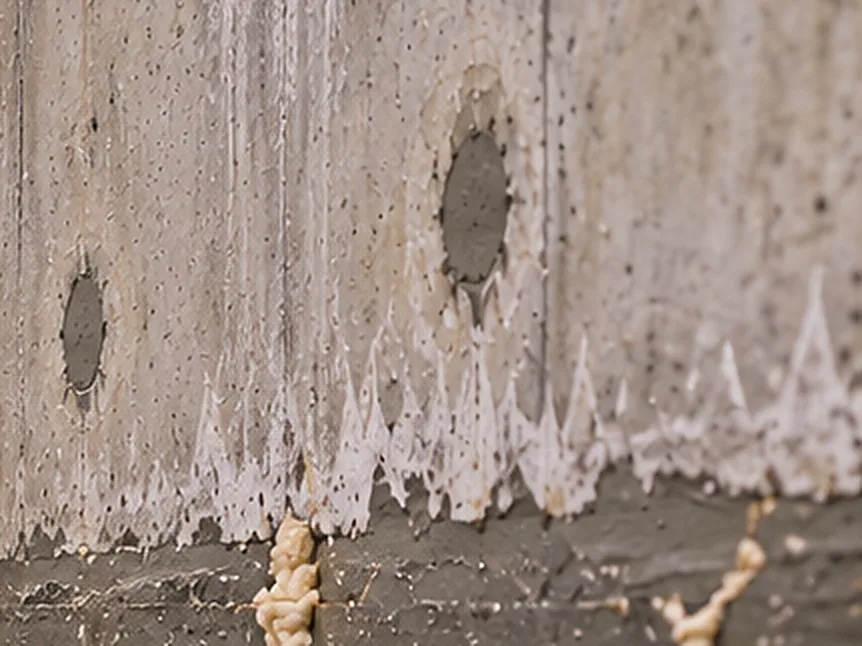
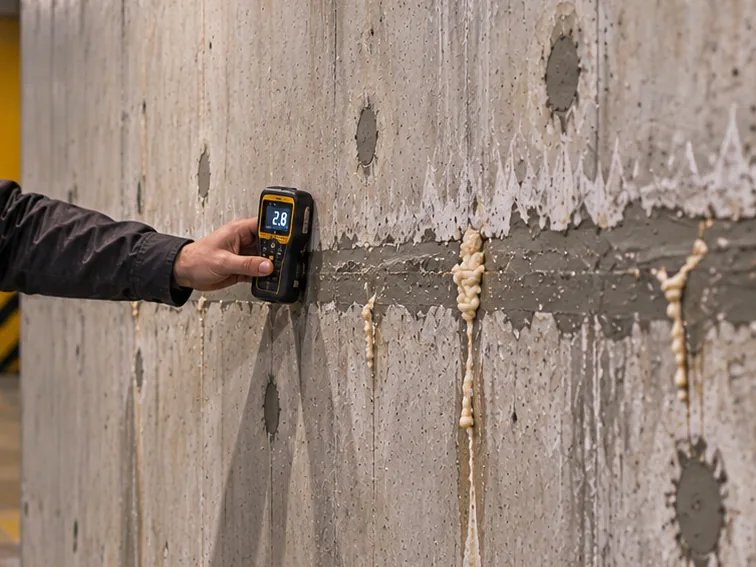
fix: replace oversized step-05 work photo and bust asset cache

diff --git a/index.html b/index.html
@@ -1,4 +1,4 @@
-<!doctype html><html lang="ru"><head><meta charset="utf-8"><meta name="viewport" content="width=device-width,initial-scale=1"><title>Инъекционная гидроизоляция подземных паркингов | Кардинал Инжиниринг</title><meta name="description" content="Гидроизоляция подземных паркингов и подвалов. Определяем путь поступления воды, подбираем технологию и бесплатно обследуем объект."><meta name="theme-color" content="#111315"><meta property="og:title" content="Инъекционная гидроизоляция подземных паркингов"><meta property="og:description" content="Инженерные решения для трещин, швов, вводов коммуникаций и напорных протечек."><link rel="icon" href="assets/icons/favicon.svg" type="image/svg+xml"><link rel="preload" as="image" href="assets/images/hero-waterproofing-team.webp" fetchpriority="high"><link rel="stylesheet" href="styles.css?v=assets-v5"></head><body>
+<!doctype html><html lang="ru"><head><meta charset="utf-8"><meta name="viewport" content="width=device-width,initial-scale=1"><title>Инъекционная гидроизоляция подземных паркингов | Кардинал Инжиниринг</title><meta name="description" content="Гидроизоляция подземных паркингов и подвалов. Определяем путь поступления воды, подбираем технологию и бесплатно обследуем объект."><meta name="theme-color" content="#111315"><meta property="og:title" content="Инъекционная гидроизоляция подземных паркингов"><meta property="og:description" content="Инженерные решения для трещин, швов, вводов коммуникаций и напорных протечек."><link rel="icon" href="assets/icons/favicon.svg" type="image/svg+xml"><link rel="preload" as="image" href="assets/images/hero-waterproofing-team.webp" fetchpriority="high"><link rel="stylesheet" href="styles.css?v=assets-v6"></head><body>
 <header class="site-header" id="top"><a class="brand" href="#top"><span class="brand-mark">К</span><span>КАРДИНАЛ<br><em>ИНЖИНИРИНГ</em></span></a><nav class="main-nav" id="primary-nav"><a href="#defects">Решения</a><a href="#injection">Технология</a><a href="#process">Как работаем</a><a href="#survey">Обследование</a></nav><div class="header-actions"><a class="phone" href="tel:+79677773568">8-967-777-35-68</a><button class="button button-small" data-action="survey">Обследование</button></div><button class="menu-toggle" aria-label="Открыть меню" aria-expanded="false" aria-controls="primary-nav"><span></span><span></span></button></header>
 <main>
 <section class="hero section-dark"><div class="hero-art"></div><div class="container hero-content"><p class="eyebrow">ИНЪЕКЦИОННАЯ ГИДРОИЗОЛЯЦИЯ <span></span></p><h1>Гидроизоляция<br>подземных паркингов<br><strong>и подвалов</strong></h1><p class="hero-lead">Устраняем протечки через трещины, рабочие и деформационные швы, вводы коммуникаций и железобетонные конструкции.</p><p class="hero-offer">Бесплатное обследование объекта<br>и техническое решение без обязательств.</p><div class="hero-actions"><button class="button" data-action="survey">Записаться на обследование <span>↗</span></button><a class="outline-link" href="tel:+79677773568">8-967-777-35-68</a></div><div class="hero-markers"><span>ТРЕЩИНЫ</span><span>ШВЫ</span><span>ВВОДЫ</span><span>НАПОРНЫЕ ТЕЧИ</span><span>ВУАЛЬНАЯ ГИДРОИЗОЛЯЦИЯ</span></div></div></section>
@@ -16,4 +16,4 @@
 <section class="section light audience"><div class="container"><p class="eyebrow dark">06 / ОБЪЕКТЫ</p><div class="ticker">УПРАВЛЯЮЩИЕ КОМПАНИИ <i>•</i> ГБУ <i>•</i> СЛУЖБЫ ЭКСПЛУАТАЦИИ <i>•</i> БИЗНЕС-ЦЕНТРЫ <i>•</i> ТОРГОВЫЕ ЦЕНТРЫ <i>•</i> ДЕВЕЛОПЕРЫ <i>•</i> ГЕНЕРАЛЬНЫЕ ПОДРЯДЧИКИ</div><h3>Работаем с действующими объектами,<br>где ремонт необходимо выполнить<br><em>с минимальным вмешательством в конструкцию.</em></h3></div></section>
 <section class="section section-dark process-v3" id="process"><div class="container"><p class="eyebrow">07 / СИСТЕМА РАБОТЫ</p><h2>От дефекта<br>до <em>выполненных работ</em></h2><div class="process-line"><span>ОБСЛЕДОВАНИЕ</span><i>→</i><span>ТЕХНИЧЕСКОЕ РЕШЕНИЕ</span><i>→</i><span>СМЕТА / КП</span><i>→</i><span>ТЗ</span><i>→</i><span>РАБОТЫ</span><i>→</i><span>КОНТРОЛЬ РЕЗУЛЬТАТА</span></div></div></section>
 <section class="section final-cta section-dark"><div class="container final-layout"><div class="section-heading"><p class="eyebrow">08 / ОБСЛЕДОВАНИЕ ОБЪЕКТА</p><h2>ЕСТЬ ПРОТЕЧКА<br>В ПОДЗЕМНОМ<br><em>ПАРКИНГЕ?</em></h2><p>Начнем с обследования.<br><strong class="free-note">Бесплатно. Без обязательств.</strong></p><div class="contact-mini"><a href="tel:+79677773568">8-967-777-35-68</a><a href="mailto:s.dimitriev@injekt-pro.ru">s.dimitriev@injekt-pro.ru</a></div></div><form class="survey-form" id="survey-form-final" novalidate><div class="form-status" aria-live="polite"></div><label>Организация<input name="organization" placeholder="Название организации"></label><label>Адрес объекта<input name="address" placeholder="Город, улица, объект"></label><label class="required">Телефон<input name="phone" type="tel" placeholder="8 (___) ___-__-__" required></label><label>Краткое описание проблемы<textarea name="problem" rows="4" placeholder="Где появляется вода?"></textarea></label><button class="button" type="submit">Записаться на обследование <span>↗</span></button></form></div></section></main>
-<footer class="site-footer"><div class="container footer-grid"><div><a class="brand" href="#top"><span class="brand-mark">К</span><span>КАРДИНАЛ<br><em>ИНЖИНИРИНГ</em></span></a><p>Гидроизоляция · Инъектирование · Ремонт подземных пространств</p></div><div><span class="footer-label">КОНТАКТЫ</span><a href="tel:+79677773568">8-967-777-35-68</a><a href="mailto:s.dimitriev@injekt-pro.ru">s.dimitriev@injekt-pro.ru</a><a href="https://injekt-pro.ru">injekt-pro.ru</a></div><div><span class="footer-label">НАВИГАЦИЯ</span><a href="#defects">Решения</a><a href="#injection">Технология</a><a href="#survey">Обследование</a></div></div><div class="container footer-bottom"><span>© ООО «Кардинал Инжиниринг»</span><span>Под землёй тоже есть будущее</span></div></footer><a class="mobile-cta" href="#survey" data-action="survey">Бесплатное обследование <span>↗</span></a><script src="script.js?v=assets-v5"></script></body></html>
+<footer class="site-footer"><div class="container footer-grid"><div><a class="brand" href="#top"><span class="brand-mark">К</span><span>КАРДИНАЛ<br><em>ИНЖИНИРИНГ</em></span></a><p>Гидроизоляция · Инъектирование · Ремонт подземных пространств</p></div><div><span class="footer-label">КОНТАКТЫ</span><a href="tel:+79677773568">8-967-777-35-68</a><a href="mailto:s.dimitriev@injekt-pro.ru">s.dimitriev@injekt-pro.ru</a><a href="https://injekt-pro.ru">injekt-pro.ru</a></div><div><span class="footer-label">НАВИГАЦИЯ</span><a href="#defects">Решения</a><a href="#injection">Технология</a><a href="#survey">Обследование</a></div></div><div class="container footer-bottom"><span>© ООО «Кардинал Инжиниринг»</span><span>Под землёй тоже есть будущее</span></div></footer><a class="mobile-cta" href="#survey" data-action="survey">Бесплатное обследование <span>↗</span></a><script src="script.js?v=assets-v6"></script></body></html>

diff --git a/script.js b/script.js
@@ -35,7 +35,7 @@ hero.querySelector('.hero-art').style.setProperty('background-position', 'center
 const navLinks = document.querySelectorAll('.main-nav a');
 [['Зоны работ', '#areas'], ['Выполнение работ', '#works'], ['Как работаем', '#field-process'], ['Обследование', '#survey']].forEach(([label, href], index) => { if (navLinks[index]) { navLinks[index].textContent = label; navLinks[index].href = href; } });
 
-const ASSET_VERSION = 'v5';
+const ASSET_VERSION = 'v6';
 const BEFORE_AFTER_CHEVRONS = '<svg viewBox="0 0 24 24" width="18" height="18" fill="none" stroke="currentColor" stroke-width="1.7" stroke-linecap="round" stroke-linejoin="round" aria-hidden="true"><path d="M9.6 8.4 6 12l3.6 3.6M14.4 8.4 18 12l-3.6 3.6"/></svg>';
 const initBeforeAfterSlider = (root) => {
   const range = root.querySelector('.ba-range');
@@ -234,7 +234,7 @@ const WORK_STEPS = [
     alt: 'Инъектирование состава через пакеры: специалист подаёт состав, оператор работает с насосом'
   },
   {
-    file: 'work-05-local-sealing.webp', w: 862, h: 646,
+    file: 'work-05-local-sealing.webp', w: 756, h: 567,
     title: 'Локальная заделка',
     text: 'После завершения инъектирования и демонтажа пакеров заделываем технологические отверстия и приводим участок в техническое состояние.',
     alt: 'Заделанные технологические отверстия и следы инъектирования на обработанном участке стены'
